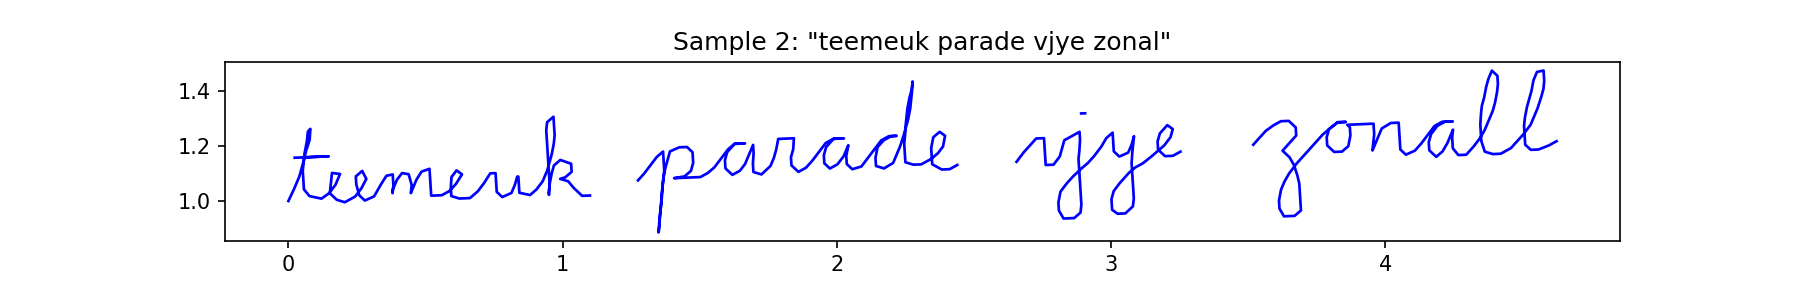
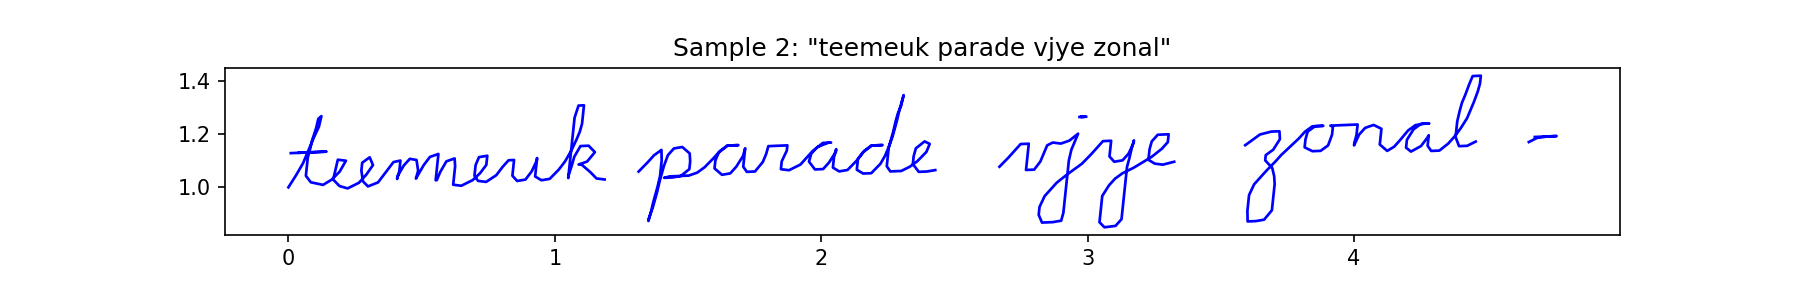
Better samples and some commentary

diff --git a/README.md b/README.md
@@ -199,11 +199,13 @@ Moved all core code into a hacky 800-line script. Also moved the full dataset in
 
 `git clone https://github.com/greydanus/cursivetransformer.git && cd cursivetransformer && pip install -r requirements.txt && python train.py --wandb_entity {your-wandb-username} --wandb_project {wandb-project-name} --wandb_api_key {your-wandb-api-key}`
 
-At 130k steps:
+Here are samples generated after 180k gradient steps:
 
 ![sample_v30](static/sample_v30.png)
 
 ![sample_v31](static/sample_v31.png)
+
+I'm particularly interested in the second of these two samples. I know that it isn't perfect, but this is a really "hard" example to get right. On the first word, the model has to go all the way back to the first character in order to dot the i, then it has to go to the last character to cross the t, then it has to go to the next word. Those are all big leaps and it manages to do them close to perfectly apart from the dot of the i being a bit shifted. Then it manages to do a good job with the dot on the i in the second word and the dot on the j in the third. This is the best quality I've seen in a sample so far - exciting.
 
 **[(Batch) Size Matters](https://wandb.ai/zwimpee/cursivetransformer/reports/Size-Matters--Vmlldzo5MTIyMjY0)**. Zach did a run where he compared batch size 32 to 64 and it looks like using a batch size of 64 has some strong benefits.
 
